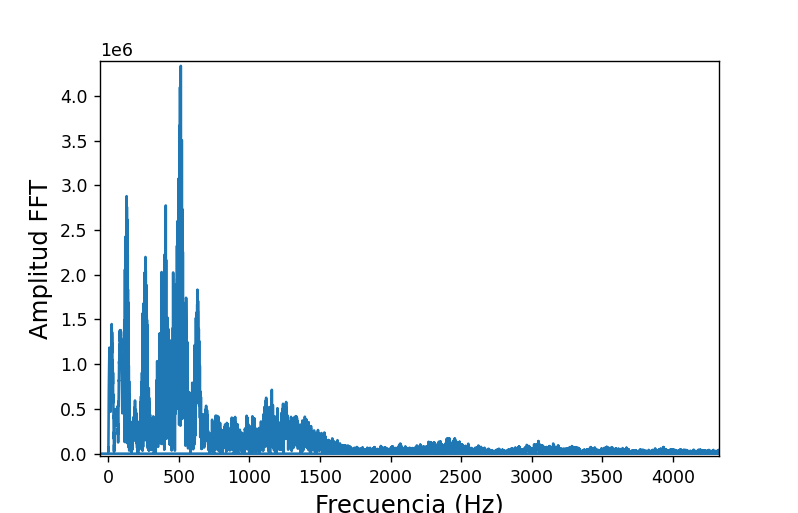
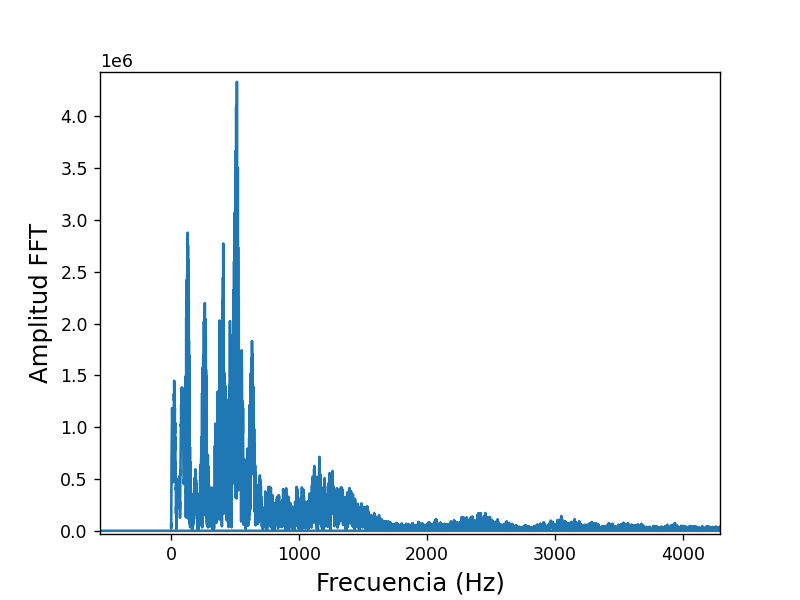
reresize y rezoom para alonso

Changed region(s): [[0.0301, 0.0624, 0.9023, 1.0], [0.0602, 0.2495, 0.1504, 0.3119], [0.0602, 0.1559, 0.1504, 0.2183]]

diff --git a/documentacion.md b/documentacion.md
@@ -38,15 +38,15 @@ A continuación se presentan los gráficos de ondas de sonido para cada particip
 
 #### Jean Marco Rojas
 
-<img src="https://github.com/JeanMarcoRU/202201-IC7602-Autrum/blob/main/scripts/data/output/rec_jeanmarco/jeanmarcoGrafico.png" width=250 height=250>
+<img src="https://github.com/JeanMarcoRU/202201-IC7602-Autrum/blob/main/scripts/data/output/rec_jeanmarco/jeanmarcoGrafico.png" width=400 height=400>
 
 #### Alonso Obando
 
-<img src="https://github.com/JeanMarcoRU/202201-IC7602-Autrum/blob/main/scripts/data/output/rec_alonso/grafico1.png" width=250 height=250>
+<img src="https://github.com/JeanMarcoRU/202201-IC7602-Autrum/blob/main/scripts/data/output/rec_alonso/grafico1.png" width=400 height=400>
 
 #### Esteban Cruz
 
-<img src="https://github.com/JeanMarcoRU/202201-IC7602-Autrum/blob/main/scripts/data/output/rec_esteban/espectro%20esteban.png" width=250 height=250>
+<img src="https://github.com/JeanMarcoRU/202201-IC7602-Autrum/blob/main/scripts/data/output/rec_esteban/espectro%20esteban.png" width=400 height=400>
 
 En estos gráficos se logra apreciar que cuando se pronuncian cada una de las 3 palabras elegidas ("hola mundo redes"), se presenta un pico en la cantidad y potencia registrada de las ondas de sonido, siendo posible identificar estos 3 picos en cada uno de los gráficos de los integrantes.
 
@@ -56,15 +56,15 @@ A continuación se presentan los gráficos de armónicos para cada participante 
 
 #### Jean Marco Rojas
 
-<img src="https://github.com/JeanMarcoRU/202201-IC7602-Autrum/blob/main/scripts/data/output/rec_jeanmarco/jeanmarcoFFT.png" width=250 height=250>
+<img src="https://github.com/JeanMarcoRU/202201-IC7602-Autrum/blob/main/scripts/data/output/rec_jeanmarco/jeanmarcoFFT.png" width=400 height=400>
 
 #### Alonso Obando
 
-<img src="https://github.com/JeanMarcoRU/202201-IC7602-Autrum/blob/main/scripts/data/output/rec_alonso/grafico2.png" width=250 height=250>
+<img src="https://github.com/JeanMarcoRU/202201-IC7602-Autrum/blob/main/scripts/data/output/rec_alonso/grafico2.png" width=400 height=400>
 
 #### Esteban Cruz
 
-<img src="https://github.com/JeanMarcoRU/202201-IC7602-Autrum/blob/main/scripts/data/output/rec_esteban/armónicos%20esteban.png" width=250 height=250>
+<img src="https://github.com/JeanMarcoRU/202201-IC7602-Autrum/blob/main/scripts/data/output/rec_esteban/armónicos%20esteban.png" width=400 height=400>
 
 ## Conclusión
 
